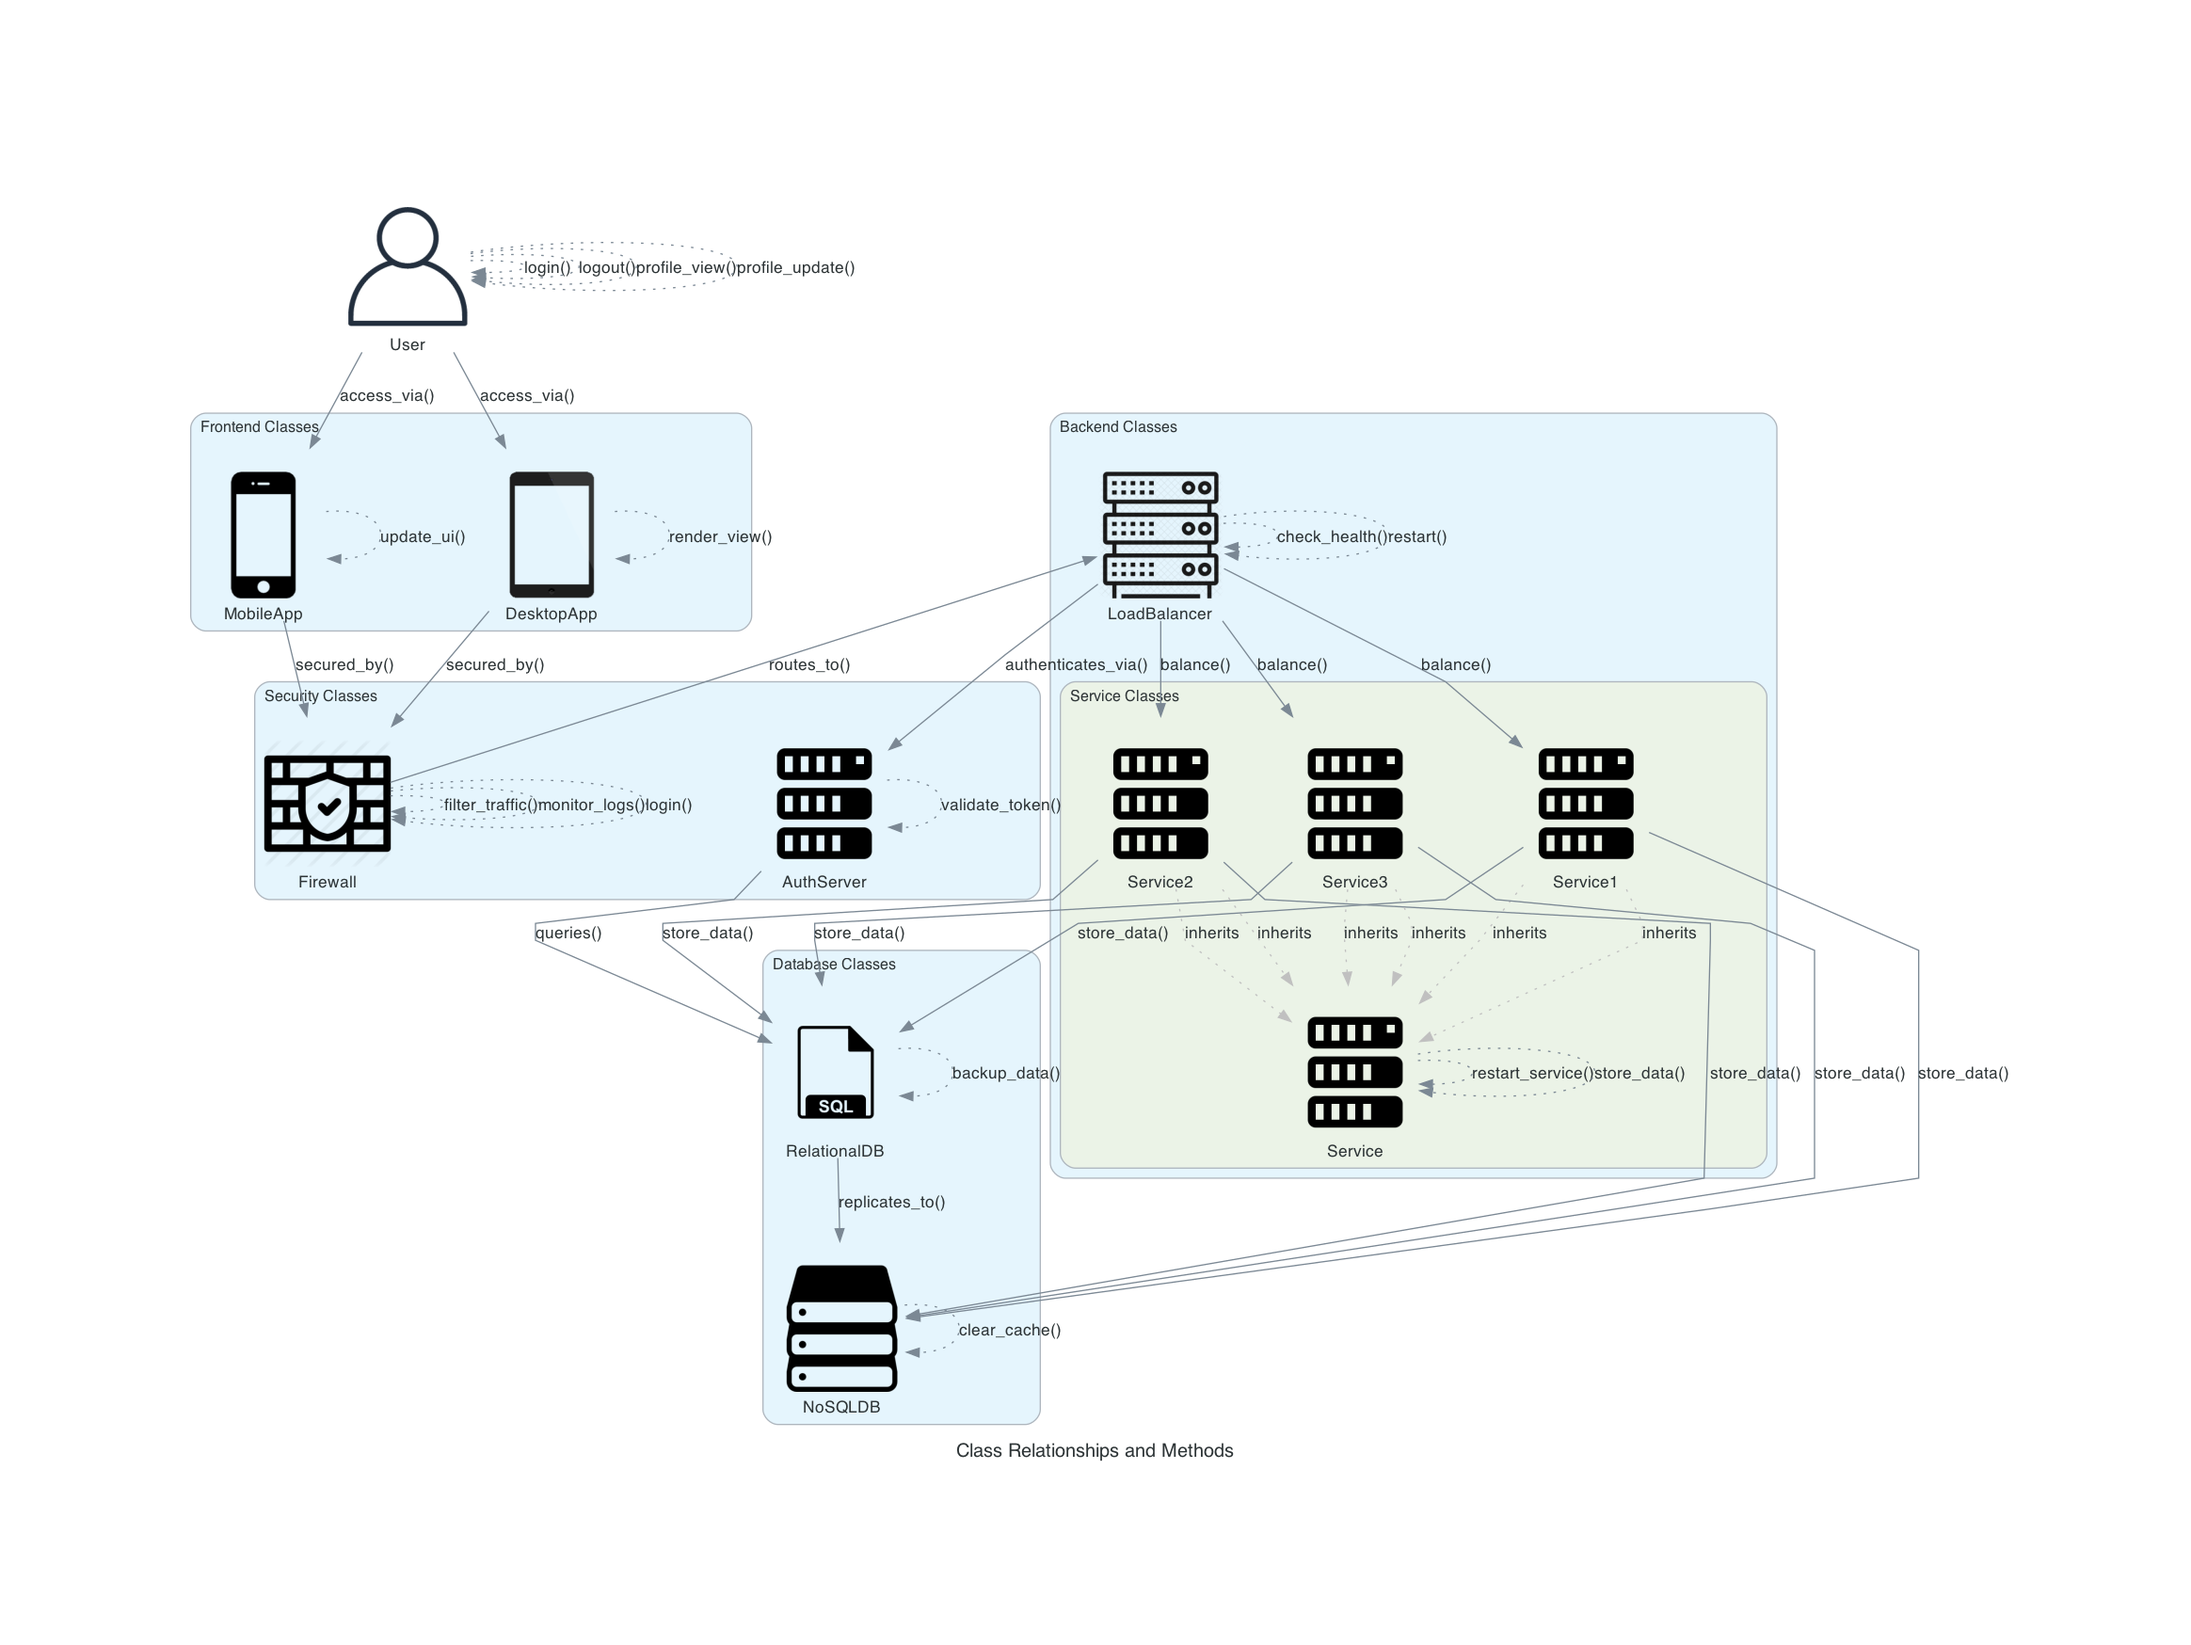
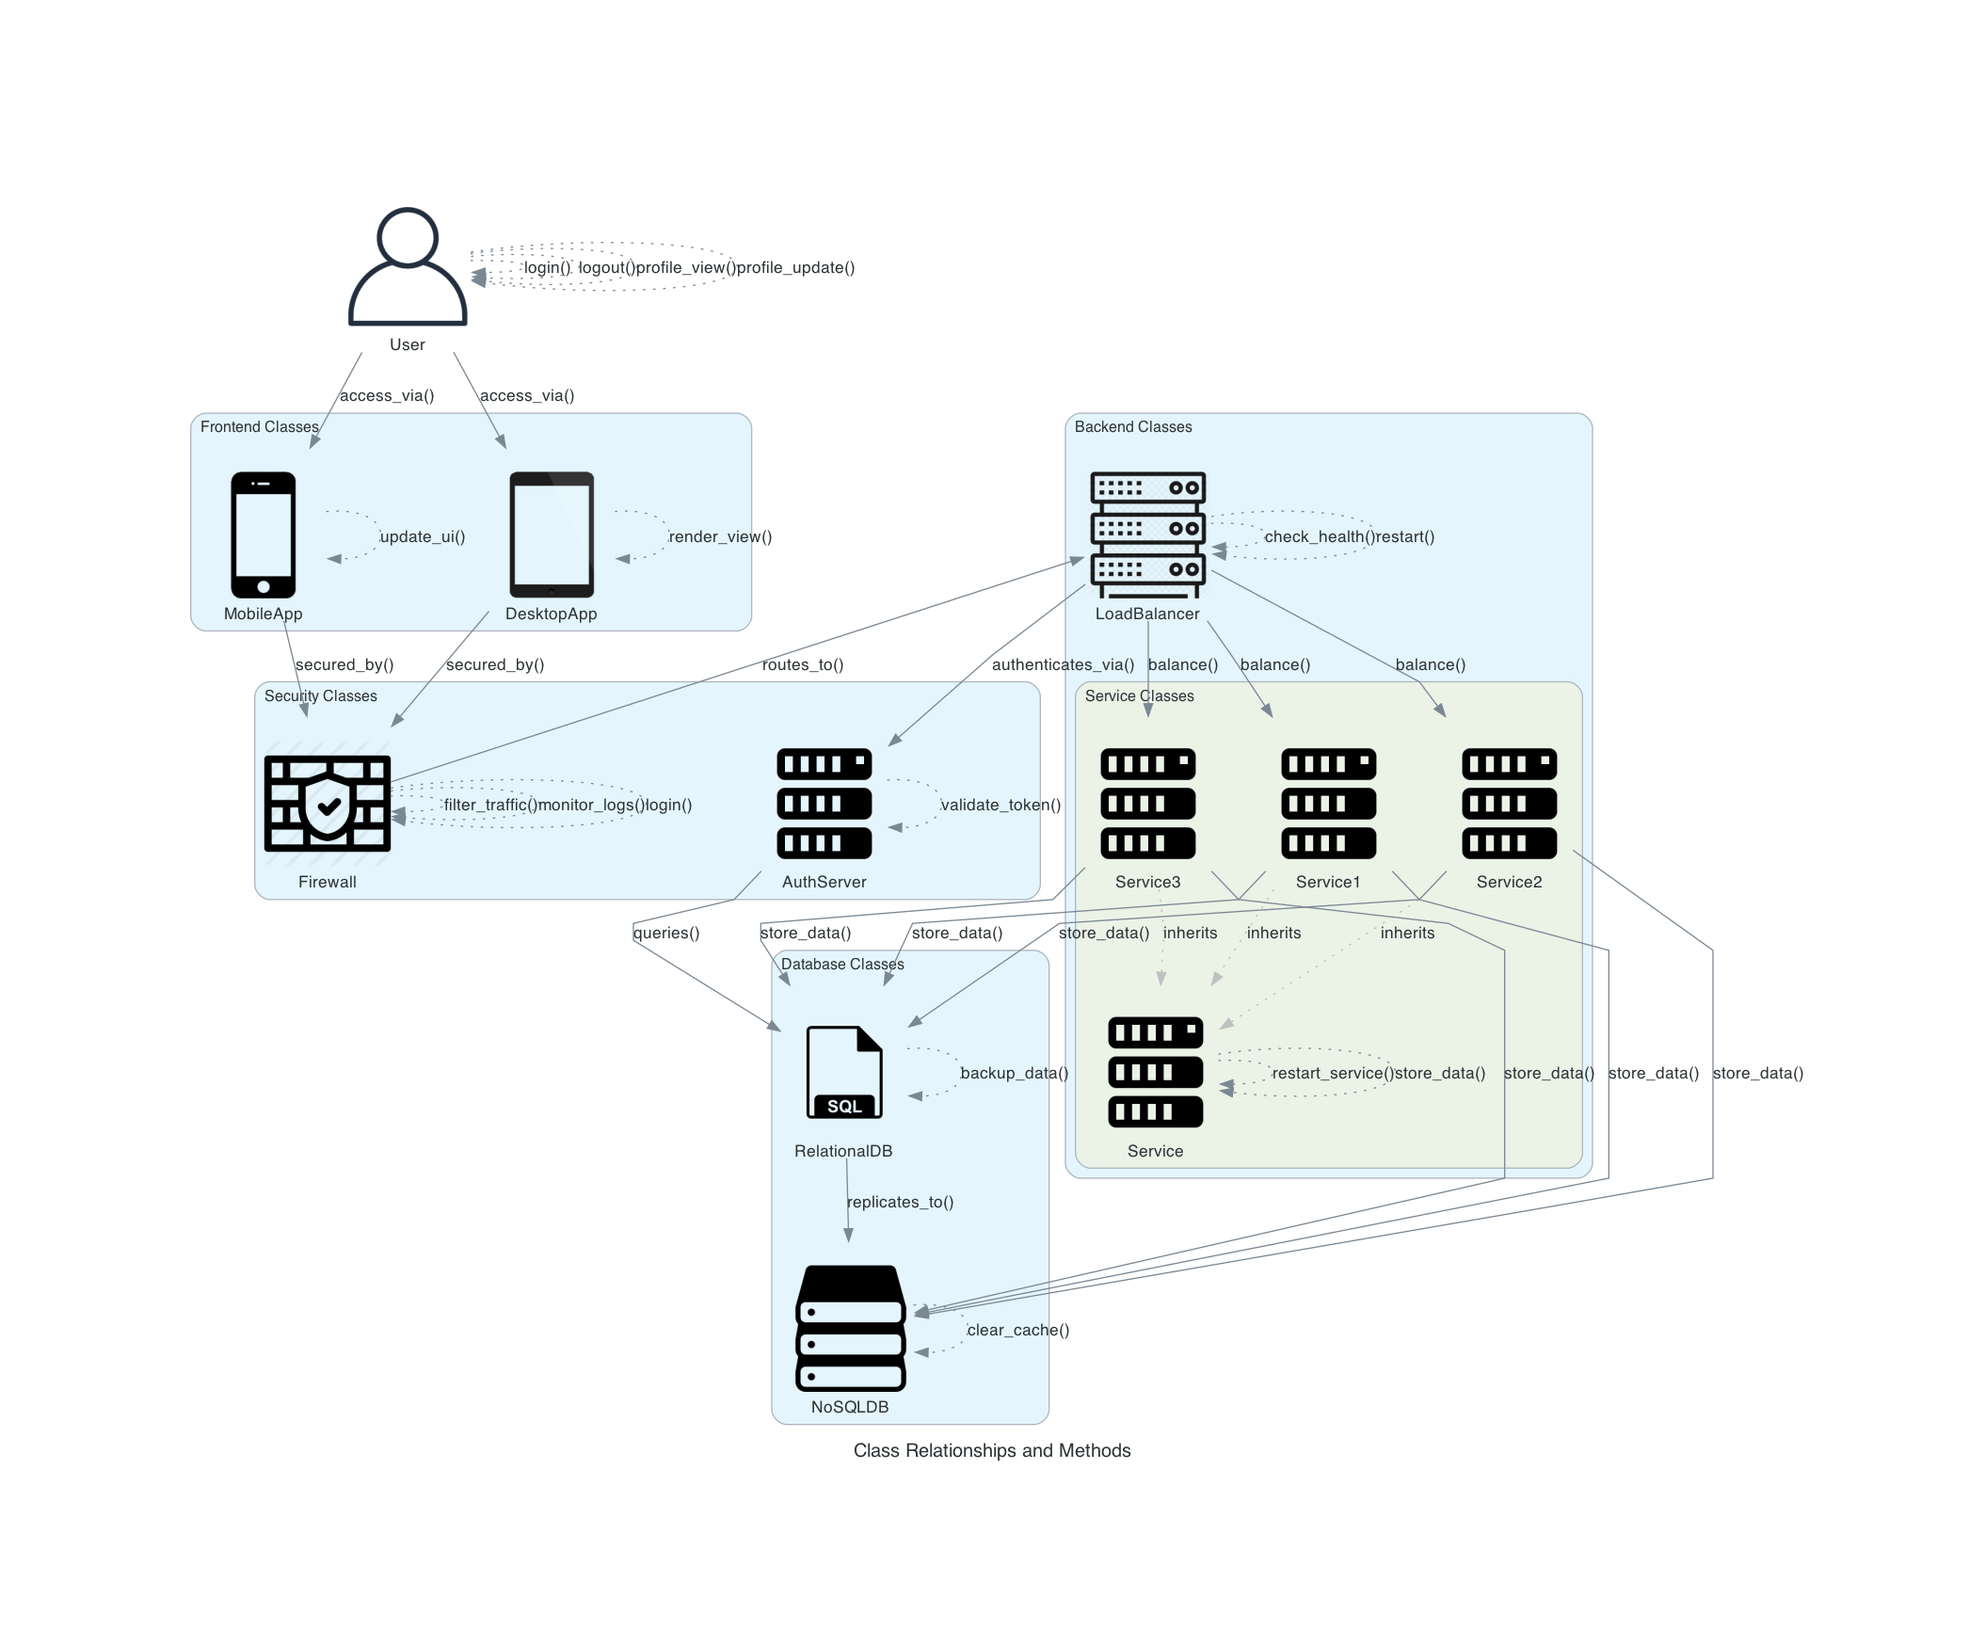
Complicated test 3

Changed region(s): [[0.0616, 0.2471, 0.9246, 0.8959], [0.1541, 0.1236, 0.4315, 0.2471], [0.2466, 0.5561, 0.2774, 0.587]]

diff --git a/diagrams/diagram3.py b/diagrams/diagram3.py
@@ -1,7 +1,84 @@
-# diagram3.py
+# diagram2.py
 from diagrams import Diagram, Cluster, Edge
+from diagrams.generic.network import Firewall
+from diagrams.generic.device import Mobile, Tablet
+from diagrams.onprem.client import User
 from diagrams.generic.compute import Rack
+from diagrams.generic.database import SQL
+from diagrams.generic.storage import Storage
+from diagrams.onprem.compute import Server
 
-with Diagram("Diagram 3", direction="TB", show=False):
-    load_balancer = Rack("LoadBalancer")
-    load_balancer >> Edge(label="restart()") >> load_balancer  # Method missing in code
+graph_attr = {
+    "splines": "polyline",
+}
+
+with Diagram("Class Relationships and Methods", direction="TB", show=False, graph_attr=graph_attr):
+    user = User("User")
+
+    with Cluster("Frontend Classes"):
+        mobile_app = Mobile("MobileApp")
+        desktop_app = Tablet("DesktopApp")
+
+    with Cluster("Backend Classes"):
+        load_balancer = Rack("LoadBalancer")
+
+        with Cluster("Service Classes"):
+            service = Server("Service")  # Parent class
+            service1 = Server("Service1")
+            service2 = Server("Service2")
+            service3 = Server("Service3")
+
+            service >> Edge(label="restart_service()", style="dotted") >> service
+            service >> Edge(label="store_data()", style="dotted") >> service
+
+            for svc in [service1, service2, service3]:
+                svc >> Edge(label="inherits", style="dotted", color="gray") >> service
+
+        load_balancer >> Edge(label="balance()") >> [service1, service2, service3]
+
+    with Cluster("Database Classes"):
+        relational_db = SQL("RelationalDB")
+        nosql_db = Storage("NoSQLDB")
+
+    with Cluster("Security Classes"):
+        firewall = Firewall("Firewall")
+        auth_server = Server("AuthServer")
+
+    user >> Edge(label="access_via()") >> [mobile_app, desktop_app]
+    [mobile_app, desktop_app] >> Edge(label="secured_by()") >> firewall
+    firewall >> Edge(label="routes_to()") >> load_balancer
+    load_balancer >> Edge(label="authenticates_via()") >> auth_server
+
+    for _service in [service1, service2, service3]:
+        _service >> Edge(label="store_data()") >> [relational_db, nosql_db]
+
+    auth_server >> Edge(label="queries()") >> relational_db
+    relational_db >> Edge(label="replicates_to()") >> nosql_db
+
+    # Standalone methods
+    user >> Edge(label="login()", style="dotted") >> user
+    user >> Edge(label="logout()", style="dotted") >> user
+    user >> Edge(label="profile_view()", style="dotted") >> user
+    user >> Edge(label="profile_update()", style="dotted") >> user
+
+    mobile_app >> Edge(label="update_ui()", style="dotted") >> mobile_app
+    desktop_app >> Edge(label="render_view()", style="dotted") >> desktop_app
+
+    firewall >> Edge(label="filter_traffic()", style="dotted") >> firewall
+    firewall >> Edge(label="monitor_logs()", style="dotted") >> firewall
+    firewall >> Edge(label="login()", style="dotted") >> firewall
+
+    load_balancer >> Edge(label="check_health()", style="dotted") >> load_balancer
+    load_balancer >> Edge(label="restart()", style="dotted") >> load_balancer
+
+    relational_db >> Edge(label="backup_data()", style="dotted") >> relational_db
+    nosql_db >> Edge(label="clear_cache()", style="dotted") >> nosql_db
+
+    auth_server >> Edge(label="validate_token()", style="dotted") >> auth_server
+
+    with Cluster("Extra Cluster"):
+        extra_class = Server("ExtraClass")
+        extra_class >> Edge(label="connects_to()") >> user
+
+    # Adds a method not implemented in the code
+    user >> Edge(label="forgot_password()") >> user

diff --git a/diagrams/diagram2.py b/diagrams/diagram2.py
@@ -1,8 +1,82 @@
 # diagram2.py
 from diagrams import Diagram, Cluster, Edge
+from diagrams.generic.network import Firewall
+from diagrams.generic.device import Mobile, Tablet
+from diagrams.onprem.client import User
 from diagrams.generic.compute import Rack
+from diagrams.generic.database import SQL
+from diagrams.generic.storage import Storage
+from diagrams.onprem.compute import Server
 
-with Diagram("Diagram 2", direction="TB", show=False):
-    load_balancer = Rack("LoadBalancer")
-    missing_class = Rack("MissingClass")  # Missing in code
-    load_balancer >> Edge(label="check_health()") >> missing_class
+graph_attr = {
+    "splines": "polyline",
+}
+
+with Diagram("Class Relationships and Methods", direction="TB", show=False, graph_attr=graph_attr):
+    user = User("User")
+
+    with Cluster("Frontend Classes"):
+        mobile_app = Mobile("MobileApp")
+        desktop_app = Tablet("DesktopApp")
+
+    with Cluster("Backend Classes"):
+        load_balancer = Rack("LoadBalancer")
+
+        with Cluster("Service Classes"):
+            service = Server("Service")  # Parent class
+            service1 = Server("Service1")
+            service2 = Server("Service2")
+            service3 = Server("Service3")
+
+            service >> Edge(label="restart_service()", style="dotted") >> service
+            service >> Edge(label="store_data()", style="dotted") >> service
+
+            for svc in [service1, service2, service3]:
+                svc >> Edge(label="inherits", style="dotted", color="gray") >> service
+
+        load_balancer >> Edge(label="balance()") >> [service1, service2, service3]
+
+    with Cluster("Database Classes"):
+        relational_db = SQL("RelationalDB")
+        nosql_db = Storage("NoSQLDB")
+
+    with Cluster("Security Classes"):
+        firewall = Firewall("Firewall")
+        auth_server = Server("AuthServer")
+
+    user >> Edge(label="access_via()") >> [mobile_app, desktop_app]
+    [mobile_app, desktop_app] >> Edge(label="secured_by()") >> firewall
+    firewall >> Edge(label="routes_to()") >> load_balancer
+    load_balancer >> Edge(label="authenticates_via()") >> auth_server
+
+    for _service in [service1, service2, service3]:
+        _service >> Edge(label="store_data()") >> [relational_db, nosql_db]
+
+    auth_server >> Edge(label="queries()") >> relational_db
+    relational_db >> Edge(label="replicates_to()") >> nosql_db
+
+    # Standalone methods
+    user >> Edge(label="login()", style="dotted") >> user
+    user >> Edge(label="logout()", style="dotted") >> user
+    user >> Edge(label="profile_view()", style="dotted") >> user
+    user >> Edge(label="profile_update()", style="dotted") >> user
+
+    mobile_app >> Edge(label="update_ui()", style="dotted") >> mobile_app
+    desktop_app >> Edge(label="render_view()", style="dotted") >> desktop_app
+
+    firewall >> Edge(label="filter_traffic()", style="dotted") >> firewall
+    firewall >> Edge(label="monitor_logs()", style="dotted") >> firewall
+    firewall >> Edge(label="login()", style="dotted") >> firewall
+
+    load_balancer >> Edge(label="check_health()", style="dotted") >> load_balancer
+    load_balancer >> Edge(label="restart()", style="dotted") >> load_balancer
+
+    relational_db >> Edge(label="backup_data()", style="dotted") >> relational_db
+    nosql_db >> Edge(label="clear_cache()", style="dotted") >> nosql_db
+
+    auth_server >> Edge(label="validate_token()", style="dotted") >> auth_server
+
+    with Cluster("Extra Cluster"):
+        extra_class = Server("ExtraClass")
+        extra_class >> Edge(label="connects_to()") >> user
+

diff --git a/classes/classes2.py b/classes/classes2.py
@@ -1,4 +1,133 @@
 # classes2.py
+# classes1.py
+class User:
+    def __init__(self, name):
+        self.name = name
+
+    def login(self):
+        pass
+
+    def logout(self):
+        pass
+
+    def profile_view(self):
+        pass
+
+    def profile_update(self):
+        pass
+
+    def access_via(self, devices):
+        pass
+
+
+class MobileApp:
+    def __init__(self, name):
+        self.name = name
+
+    def update_ui(self):
+        pass
+
+    def secured_by(self, devices):
+        pass
+
+
+class DesktopApp:
+    def __init__(self, name):
+        self.name = name
+
+    def render_view(self):
+        pass
+
+    def secured_by(self, devices):
+        pass
+
+
+class Firewall:
+    def __init__(self, name):
+        self.name = name
+
+    def filter_traffic(self):
+        pass
+
+    def monitor_logs(self):
+        pass
+
+    def login(self):
+        pass
+
+    def routes_to(self, target):
+        pass
+
+
+class Service:
+    def __init__(self, name):
+        self.name = name
+
+    def restart_service(self):
+        pass
+
+    def store_data(self, databases):
+        pass
+
+
+class Service1(Service):
+    def __init__(self):
+        super().__init__("Service1")
+
+
+class Service2(Service):
+    def __init__(self):
+        super().__init__("Service2")
+
+
+class Service3(Service):
+    def __init__(self):
+        super().__init__("Service3")
+
+
 class LoadBalancer:
+    def __init__(self, name):
+        self.name = name
+
     def check_health(self):
-        print("Checking health of LoadBalancer.")
+        pass
+
+    def restart(self):
+        pass
+
+    def balance(self, services):
+        pass
+
+    def authenticates_via(self, server):
+        pass
+
+
+class RelationalDB:
+    def __init__(self, name):
+        self.name = name
+
+    def backup_data(self):
+        pass
+
+    def replicates_to(self, target_db):
+        pass
+
+
+class NoSQLDB:
+    def __init__(self, name):
+        self.name = name
+
+    def clear_cache(self):
+        pass
+
+
+class AuthServer:
+    def __init__(self, name):
+        self.name = name
+
+    def validate_token(self):
+        pass
+
+    def queries(self, database):
+        pass
+

diff --git a/check_diagram.py b/check_diagram.py
@@ -194,6 +194,8 @@ class DiagramVisitor(ast.NodeVisitor):
         right_class_ids = []
         if isinstance(node.right, ast.List):
             right_class_ids = [elt.id for elt in node.right.elts if isinstance(elt, ast.Name)]
+        elif isinstance(node.right, ast.Name):
+            right_class_ids = [node.right.id]
 
         self.add_to_connections(left_class_ids, method, right_class_ids, node.op)
 
@@ -203,6 +205,7 @@ class DiagramVisitor(ast.NodeVisitor):
         For example, A >> Edge(label="method") >> B means A.method connects to B.
         """
         if method is None:
+            # print("Method", method)
             # No method label found, skip adding a method connection
             return
 
@@ -236,7 +239,10 @@ class DiagramVisitor(ast.NodeVisitor):
         Add a method to a class in the internal mapping, ensuring no duplicates.
         """
         if method == 'inherits':
-            self.all_class_to_methods[class_name].extend(self.all_class_to_methods[another_class_name])
+            if class_name in self.all_class_to_methods:
+                self.all_class_to_methods[class_name].extend(self.all_class_to_methods[another_class_name])
+            else:
+                self.all_class_to_methods[class_name] = self.all_class_to_methods[another_class_name]
             return
         if class_name not in self.all_class_to_methods:
             self.all_class_to_methods[class_name] = []
